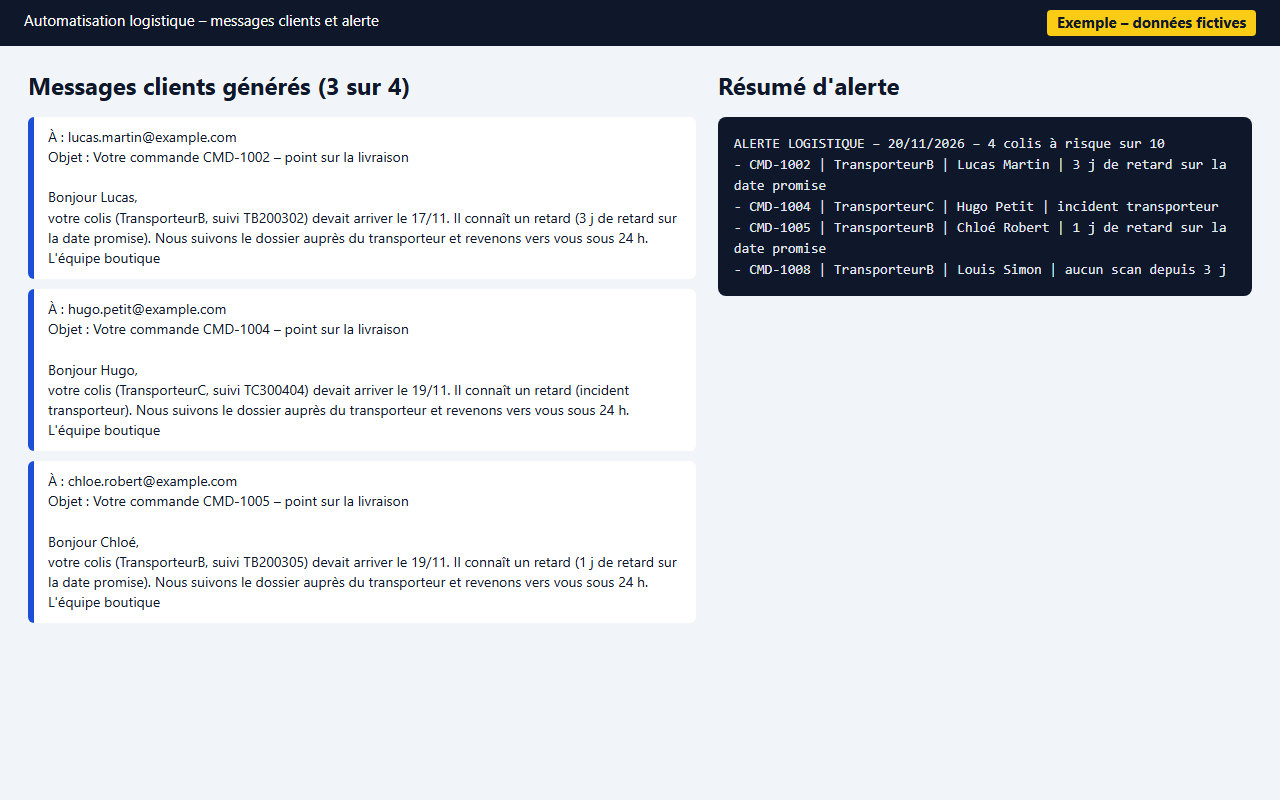
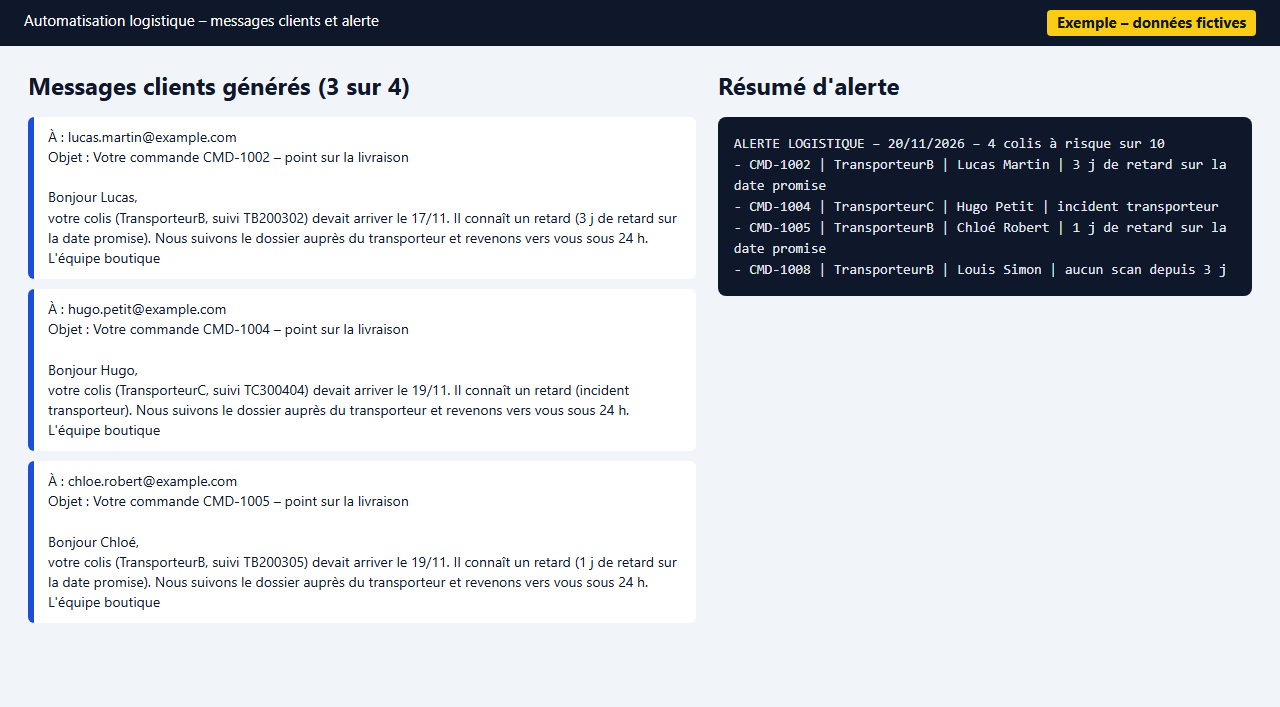
sauvegarde 2026-11-22

Changed region(s): [[0.0, 0.0934, 0.5312, 0.8713], [0.5625, 0.0934, 1.0, 0.4356], [0.0, 0.0, 1.0, 0.0622]]

diff --git a/livrables/comeup/demos/S2/app.py b/livrables/comeup/demos/S2/app.py
@@ -1,10 +1,12 @@
 """Chatbot FAQ local : recherche par mots-clés (TF-IDF simplifié) dans faq.md, cite la section source, dit « je ne sais pas » sous le seuil.
 Lancer : python app.py  puis http://localhost:8765  (aucune API, aucune dépendance)"""
-import re, math, json, unicodedata, pathlib, datetime, html
+import os, sys, re, math, json, unicodedata, pathlib, datetime, html
 from http.server import BaseHTTPRequestHandler, HTTPServer
 from urllib.parse import urlparse, parse_qs
 here = pathlib.Path(__file__).parent
+sys.path.insert(0, str(here.parent)); import llm
 THRESHOLD = 1.0
+COVERAGE = 0.5
 STOP = set("le la les un une des de du d l et ou en a au aux je tu il on nous vous ce ca que qui quoi quel quels quelle est sont ai as avez avons puis peut pour par sur dans mon ma mes votre vos y".split())
 def toks(s):
     s = unicodedata.normalize("NFD", s.lower()); s = "".join(c for c in s if unicodedata.category(c) != "Mn")
@@ -17,11 +19,18 @@ def ask(q):
     qt = set(toks(q)); best = (0, None)
     for t, b in docs:
         dt = set(toks(t + " " + b)); sc = sum(math.log(1 + N/df[w]) for w in qt & dt)
-        if sc > best[0]: best = (sc, (t, b))
-    if best[0] < THRESHOLD:
-        with open(here/"unanswered.log", "a", encoding="utf-8") as f: f.write(f"{datetime.datetime.now():%Y-%m-%d %H:%M}\t{q}\n")
-        return {"answer": "Je ne sais pas : cette information n'est pas dans la FAQ. Je transmets votre question à l'équipe, qui vous répondra par e-mail sous 24 h ouvrées.", "source": None, "score": round(best[0], 2)}
-    t, b = best[1]; return {"answer": b, "source": f"FAQ Boutique Démo > {t}", "score": round(best[0], 2)}
+        if sc > best[0] and len(qt & dt) / len(qt) >= COVERAGE: best = (sc, (t, b))  # une question dont la moitié des mots est inconnue de la FAQ est hors périmètre
+    if best[0] < THRESHOLD: return unknown(q, best[0])
+    t, b = best[1]
+    if os.environ.get("S2_LLM"):  # RAG : Claude (CLI headless) rédige la réponse à partir du seul passage retrouvé
+        b = llm.ask("Tu es l'assistant d'une boutique. Réponds en français, en 1 à 3 phrases, UNIQUEMENT à partir de l'extrait de FAQ ci-dessous. "
+                    "Si l'extrait ne répond pas à la question, réponds exactement : Je ne sais pas."
+                    f"\n\nExtrait ({t}) :\n{b}\n\nQuestion : {q}")
+        if b.lower().startswith("je ne sais pas"): return unknown(q, best[0])
+    return {"answer": b, "source": f"FAQ Boutique Démo > {t}", "score": round(best[0], 2)}
+def unknown(q, score):
+    with open(here/"unanswered.log", "a", encoding="utf-8") as f: f.write(f"{datetime.datetime.now():%Y-%m-%d %H:%M}\t{q}\n")
+    return {"answer": "Je ne sais pas : cette information n'est pas dans la FAQ. Je transmets votre question à l'équipe, qui vous répondra par e-mail sous 24 h ouvrées.", "source": None, "score": round(score, 2)}
 PAGE = (here/"widget.html").read_text(encoding="utf-8")
 class H(BaseHTTPRequestHandler):
     def log_message(self, *a): pass

diff --git a/livrables/comeup/demos/S1/n8n/build_workflow.py b/livrables/comeup/demos/S1/n8n/build_workflow.py
@@ -1,0 +1,42 @@
+"""Génère workflow.json (importable dans n8n). Lancer : python build_workflow.py"""
+import json, pathlib
+here = pathlib.Path(__file__).parent
+D = (here.parent).as_posix()   # dossier contenant orders.csv / tracking.csv
+LATE = r"""
+const TODAY = new Date('2026-11-20'), STALE = 3, day = 86400000;
+const track = Object.fromEntries($input.all().map(i => [i.json.tracking, i.json]));
+const out = [];
+for (const {json: o} of $('Lire orders').all()) {
+  const t = track[o.tracking]; let reason = null;
+  const late = Math.round((TODAY - new Date(o.promised)) / day);
+  if (!t) reason = 'aucun statut de suivi';
+  else if (t.status === 'delivered') continue;
+  else if (t.status === 'exception') reason = 'incident transporteur';
+  else if (late > 0) reason = `${late} j de retard sur la date promise`;
+  else if ((TODAY - new Date(t.last_scan)) / day >= STALE) reason = `aucun scan depuis ${Math.round((TODAY - new Date(t.last_scan)) / day)} j`;
+  if (reason) out.push({json: {...o, reason}});
+}
+return out;
+"""
+MSG = r"""
+return $input.all().map(({json: o}) => {
+  const [y, m, d] = o.promised.split('-');
+  return {json: {to: o.email, order: o.order_id, reason: o.reason,
+    subject: `Votre commande ${o.order_id} – point sur la livraison`,
+    body: `Bonjour ${o.customer.split(' ')[0]},\nvotre colis (${o.carrier}, suivi ${o.tracking}) devait arriver le ${d}/${m}. Il connaît un retard (${o.reason}). Nous suivons le dossier auprès du transporteur et revenons vers vous sous 24 h.\nL'équipe boutique`}};
+});
+"""
+N = lambda name, typ, v, x, params: {"parameters": params, "name": name, "type": typ, "typeVersion": v, "position": [x, 0], "id": name.lower().replace(" ", "-")}
+nodes = [
+ N("Démarrer", "n8n-nodes-base.manualTrigger", 1, 0, {}),
+ N("Fichier orders", "n8n-nodes-base.readWriteFile", 1, 220, {"fileSelector": f"{D}/orders.csv"}),
+ N("Lire orders", "n8n-nodes-base.extractFromFile", 1, 440, {"operation": "csv"}),
+ N("Fichier tracking", "n8n-nodes-base.readWriteFile", 1, 660, {"fileSelector": f"{D}/tracking.csv"}),
+ N("Lire tracking", "n8n-nodes-base.extractFromFile", 1, 880, {"operation": "csv"}),
+ N("Détecter les retards", "n8n-nodes-base.code", 2, 1100, {"jsCode": LATE}),
+ N("Rédiger les messages", "n8n-nodes-base.code", 2, 1320, {"jsCode": MSG}),
+]
+names = [n["name"] for n in nodes]
+conn = {a: {"main": [[{"node": b, "type": "main", "index": 0}]]} for a, b in zip(names, names[1:])}
+(here/"workflow.json").write_text(json.dumps({"name": "Détection des colis en retard (démo, données fictives)", "nodes": nodes, "connections": conn, "settings": {}}, ensure_ascii=False, indent=1), encoding="utf-8")
+print("workflow.json écrit,", len(nodes), "nœuds")

diff --git a/livrables/comeup/demos/S1/shots.py b/livrables/comeup/demos/S1/shots.py
@@ -1,6 +1,6 @@
 import sys, csv, html, subprocess, pathlib, os
 sys.path.insert(0, str(pathlib.Path(__file__).resolve().parent.parent))
-from common import page, shot, ASSETS
+from common import page, shot, shot_fit, ASSETS
 A = "#1D4ED8"; here = pathlib.Path(__file__).parent
 log = subprocess.run([sys.executable, str(here/"run.py")], capture_output=True, text=True, encoding="utf-8",
                      env={**os.environ, "PYTHONIOENCODING": "utf-8"}).stdout
@@ -10,7 +10,7 @@ def table(path, bad=lambda r: False):
     return f"<table><tr>{h}</tr>" + "".join(f"<tr class='{'warn' if bad(r) else ''}'>" + "".join(f"<td>{html.escape(v)}</td>" for v in r.values()) + "</tr>" for r in rows) + "</table>"
 tmp = here/"_tmp.html"
 def make(name, title, body, h):
-    tmp.write_text(page(title, body, A), encoding="utf-8"); shot(tmp, ASSETS/name, 1280, h)
+    tmp.write_text(page(title, body, A), encoding="utf-8"); shot_fit(tmp, ASSETS/name, 1280, 12)
 make("S1-1-donnees-entree.png", "Automatisation logistique – données d'entrée",
      "<h1>1. Commandes (orders.csv)</h1>" + table(here/"orders.csv") + "<h1 style='margin-top:20px'>2. Statuts transporteur (tracking.csv)</h1>" + table(here/"tracking.csv"), 800)
 make("S1-2-execution.png", "Automatisation logistique – exécution du script",

diff --git a/livrables/comeup/demos/common.py b/livrables/comeup/demos/common.py
@@ -23,3 +23,13 @@ def shot(html_path, png, w, h):
     url = html_path if str(html_path).startswith("http") else pathlib.Path(html_path).resolve().as_uri()
     subprocess.run([CHROME, "--headless=new", "--disable-gpu", "--hide-scrollbars", f"--window-size={w},{h}",
                     f"--screenshot={png}", "--virtual-time-budget=3000", url], check=True, capture_output=True)
+
+def shot_fit(html_path, png, w, pad=0):
+    """Capture à la hauteur exacte du contenu (ni coupée, ni à moitié vide)."""
+    import re
+    p = pathlib.Path(html_path); src = p.read_text(encoding="utf-8")
+    p.write_text(src + "<script>document.documentElement.dataset.h=document.documentElement.scrollHeight</script>", encoding="utf-8")
+    dom = subprocess.run([CHROME, "--headless=new", "--disable-gpu", f"--window-size={w},400", "--virtual-time-budget=3000", "--dump-dom", p.resolve().as_uri()],
+                         check=True, capture_output=True, text=True, encoding="utf-8").stdout
+    h = int(re.search(r'data-h="(\d+)"', dom).group(1)) + pad
+    p.write_text(src, encoding="utf-8"); shot(p, png, w, h)

diff --git a/livrables/comeup/demos/llm.py b/livrables/comeup/demos/llm.py
@@ -1,0 +1,10 @@
+"""LLM local = CLI Claude Code en mode headless (abonnement, pas d'API payante). Lève RuntimeError si la CLI n'est pas connectée."""
+import subprocess, json, os, shutil
+def ask(prompt, model="haiku", timeout=180):
+    env = {k: v for k, v in os.environ.items() if not k.startswith(("CLAUDE", "ANTHROPIC_"))}  # jamais de clé API
+    p = subprocess.run([shutil.which("claude") or "claude", "-p", "--model", model, "--output-format", "json"], input=prompt,
+                       capture_output=True, text=True, encoding="utf-8", timeout=timeout, env=env)
+    r = json.loads(p.stdout)
+    if r.get("is_error"): raise RuntimeError(r.get("result", "erreur claude"))
+    return r["result"].strip()
+if __name__ == "__main__": print(ask("Réponds uniquement : OK"))
